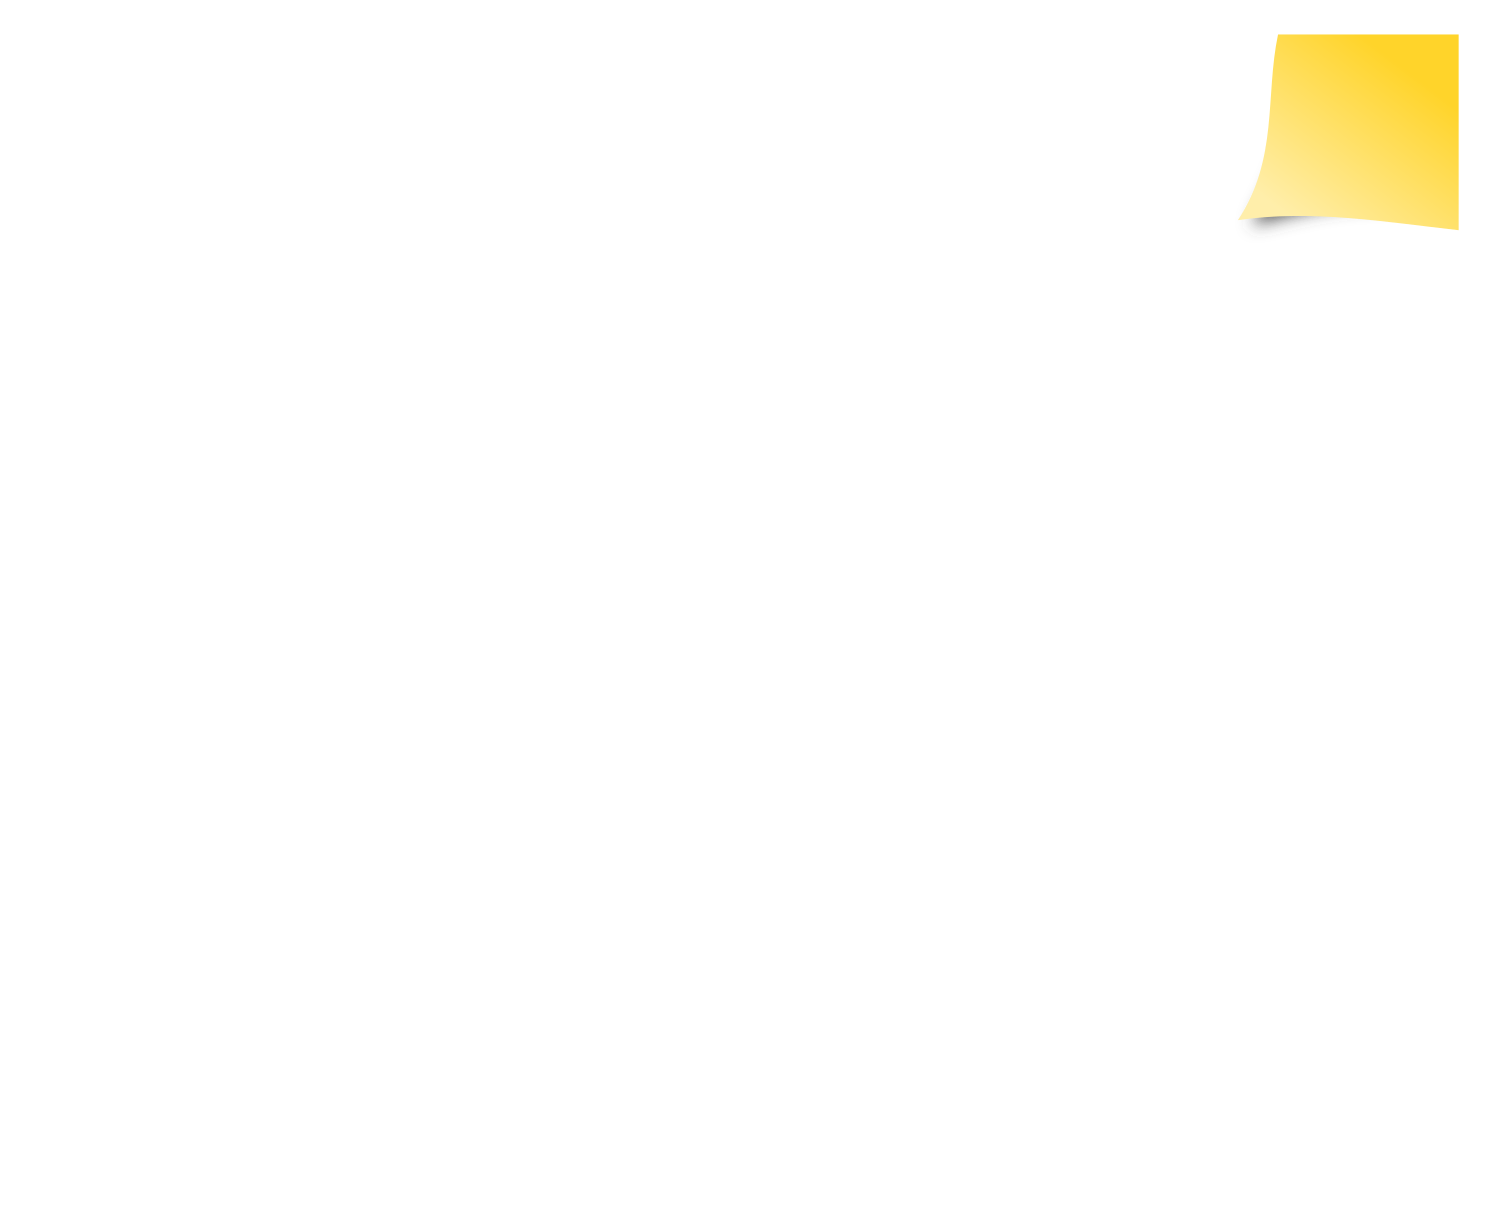
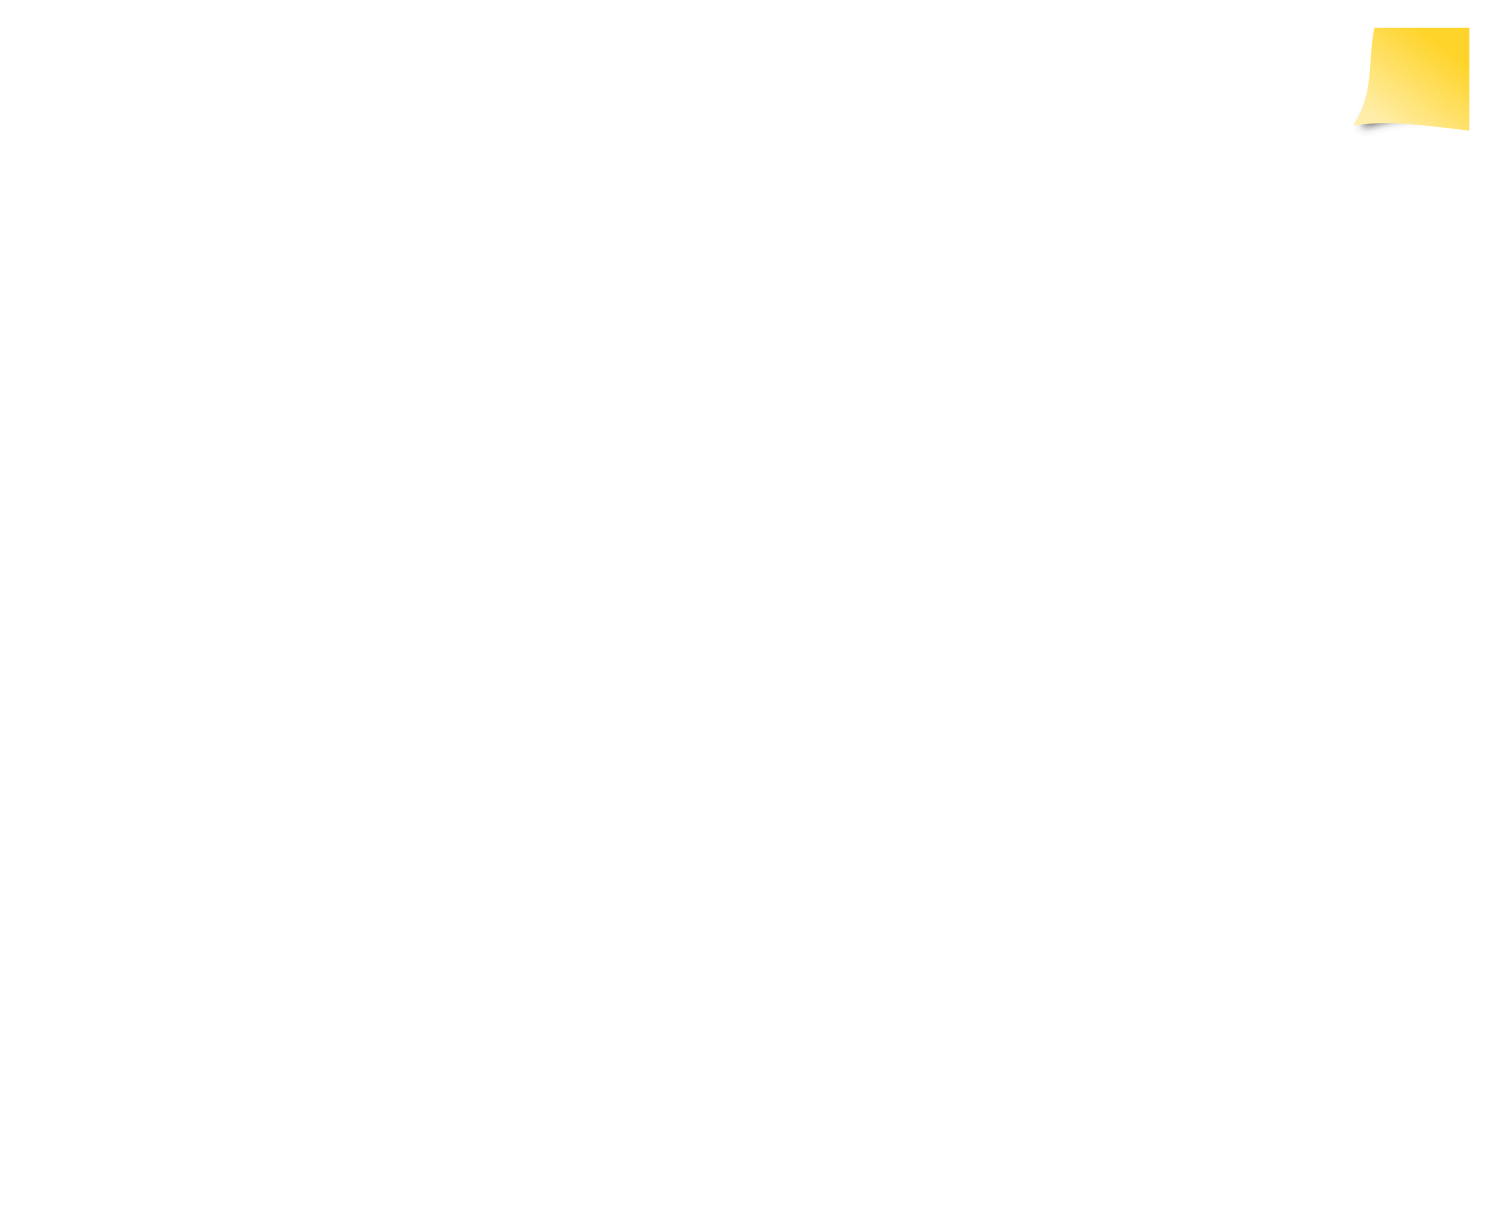
Add background image sticky notes

Changed region(s): [[0.828, 0.0, 0.9813, 0.187]]

diff --git a/docs/sessions/template.html b/docs/sessions/template.html
@@ -79,6 +79,7 @@ class: center, middle
     link to the file in the Github repo -->
 
 ---
+background-image: url({{ site.baseurl}}/assets/images/background_challenge_2.png)
 class: center, middle
 
 .right[![:scale 25%]({{ site.baseurl}}/assets/images/sticky_note.svg)]
@@ -89,6 +90,7 @@ class: center, middle
     link to the file in the Github repo -->
 
 ---
+background-image: url({{ site.baseurl}}/assets/images/background_challenge_3.png)
 class: center, middle
 
 # Challenge 3
